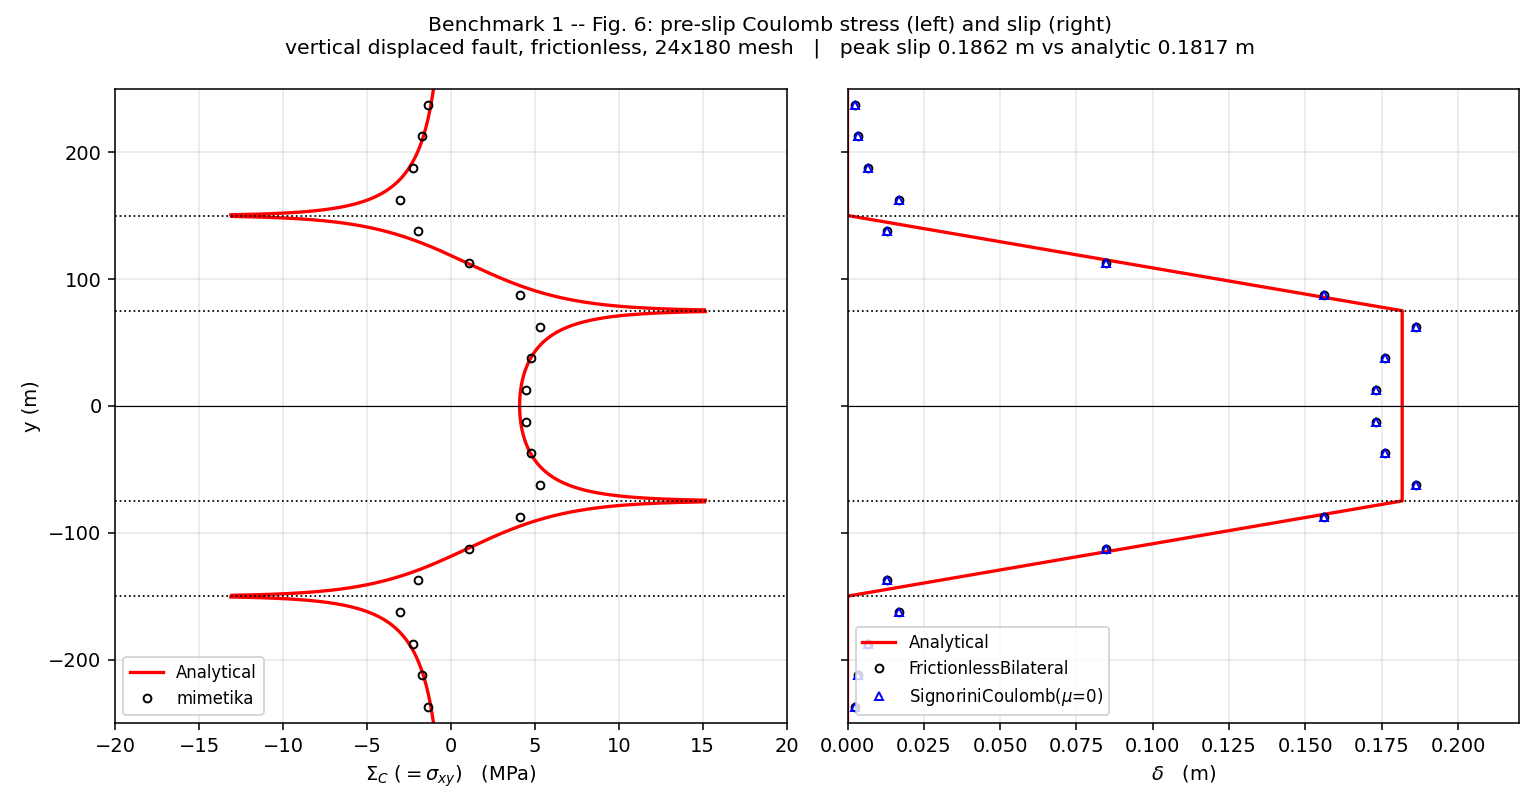
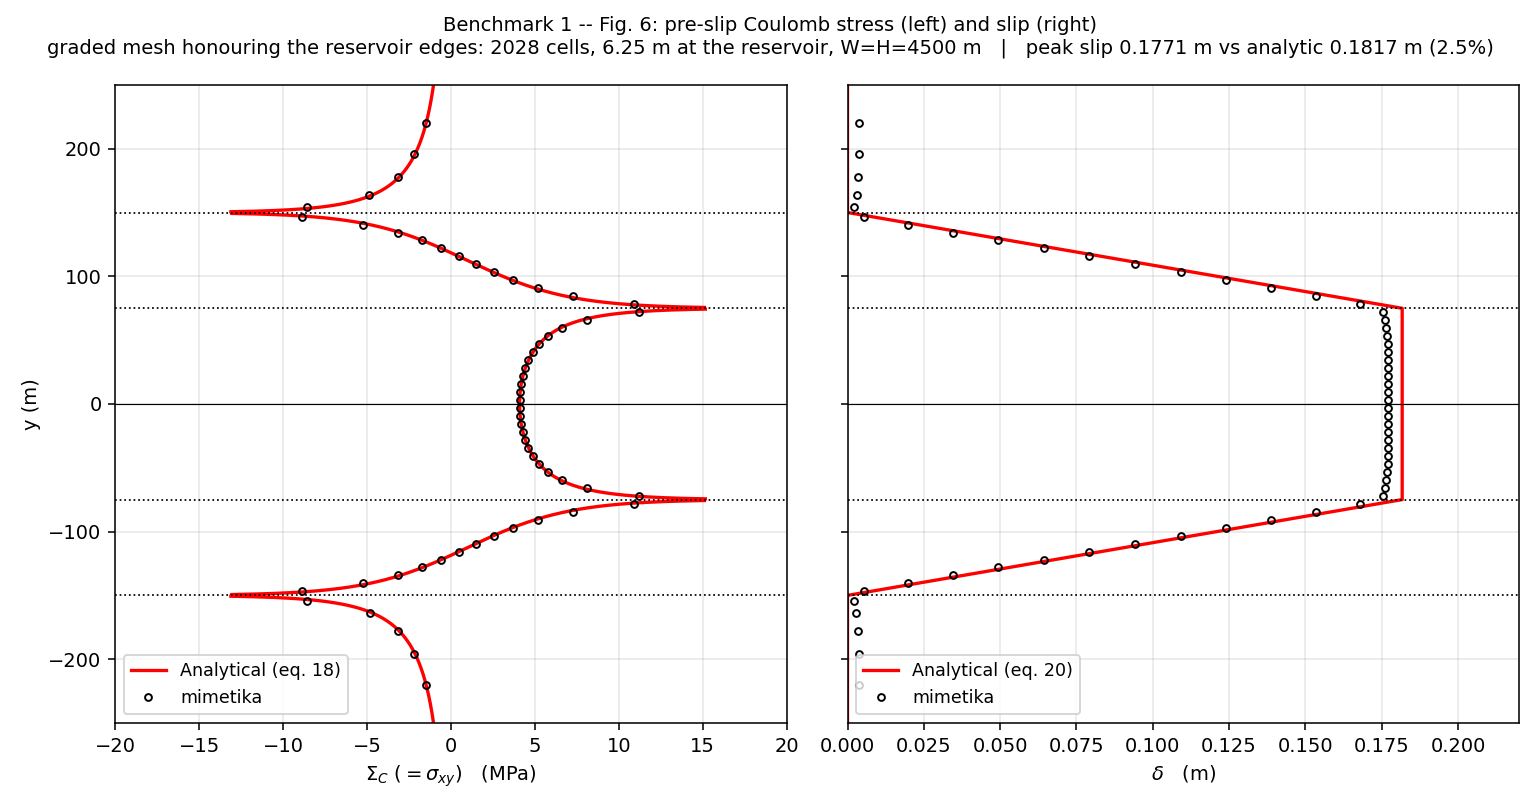
wip: reproduction of figure 6

diff --git a/benchmarks/contact_mechanics/benchmark_1.py b/benchmarks/contact_mechanics/benchmark_1.py
@@ -47,7 +47,7 @@ from mimetika.assembly.mixed import MixedElasticity, boundary_facets
 from mimetika.assembly.poromechanics import PoroMechanics
 from mimetika.contact import ContactDriver, FrictionlessBilateral, SignoriniCoulomb
 from mimetika.materials import Material
-from mimetika.mesh import structured_quads
+from mimetika.mesh import graded_coordinates, graded_quads, structured_quads
 from mimetika.mesh.fracture import facets_on_plane
 from mimetika.operators.elasticity import ElasticityInnerProduct
 from mimetika.solver.saddle import solve_saddle
@@ -97,12 +97,26 @@ def peak_slip(parameters: Parameters) -> float:
 # -- the simulation -------------------------------------------------------------------
 
 
-def build(parameters: Parameters, nx: int = 20, ny: int = 60):
-    """Mesh, fault tags and the depletion pressure field of the offset reservoir."""
+def build(parameters: Parameters, nx: int = 20, ny: int = 60, spacing=None):
+    """Mesh, fault tags and the depletion pressure field of the offset reservoir.
+
+    With ``spacing`` given the mesh is **graded**: nodes are placed exactly on the
+    reservoir edges ``y = +-a, +-b`` and on the fault ``x = 0``, uniform at
+    ``spacing`` across the reservoir, coarsening geometrically outwards.  That is
+    the right mesh for this problem -- the features span 300 m inside a 4500 m
+    domain, so a uniform grid spends almost all its cells where nothing happens.
+    Passing ``nx``/``ny`` instead gives the uniform mesh, kept for comparison.
+    """
     width, height = parameters.width, parameters.height
-    mesh = structured_quads(
-        nx, ny, lengths=(width, height), origin=(-width / 2, -height / 2)
-    )
+    if spacing is not None:
+        a, b = parameters.fault_a, parameters.fault_b
+        ys = graded_coordinates([-b, -a, a, b], (-height / 2, height / 2), spacing)
+        xs = graded_coordinates([0.0], (-width / 2, width / 2), 2.0 * spacing)
+        mesh = graded_quads(xs, ys)
+    else:
+        mesh = structured_quads(
+            nx, ny, lengths=(width, height), origin=(-width / 2, -height / 2)
+        )
     fault = facets_on_plane(mesh, [0.0, 0.0, 0.0], [1.0, 0.0, 0.0])
 
     # the reservoir is displaced across the fault: [-b, a] on the left, [-a, b]
@@ -158,7 +172,8 @@ def mechanics_factory(mesh, parameters: Parameters, pressure):
     return factory
 
 
-def pre_slip_stress(parameters: Parameters, nx: int = 20, ny: int = 60):
+def pre_slip_stress(parameters: Parameters, nx: int = 20, ny: int = 60,
+                    spacing=None):
     """Coulomb stress on the **locked** fault -- Fig. 6 (left), eq. (18).
 
     The other half of the benchmark, and a different computation: the fault is
@@ -170,7 +185,7 @@ def pre_slip_stress(parameters: Parameters, nx: int = 20, ny: int = 60):
     is singular at the four reservoir edges ``y = +-a, +-b``, so a cell-centred
     value can only ever track it away from those points.
     """
-    mesh, fault, pressure = build(parameters, nx=nx, ny=ny)
+    mesh, fault, pressure = build(parameters, nx=nx, ny=ny, spacing=spacing)
     problem, matrix, rhs = mechanics_factory(mesh, parameters, pressure)(None)
     solution = problem.split(
         solve_saddle(matrix, rhs, problem.block_sizes, method="direct")
@@ -215,6 +230,7 @@ def simulate(
     ny: int = 60,
     law=None,
     prestress: bool = True,
+    spacing=None,
 ):
     """Solve the displaced-fault problem; return slip against ``y``.
 
@@ -224,7 +240,7 @@ def simulate(
     shut, and with ``prestress=False`` the unilateral one opens it, which is the
     failure this benchmark is able to detect.
     """
-    mesh, fault, pressure = build(parameters, nx=nx, ny=ny)
+    mesh, fault, pressure = build(parameters, nx=nx, ny=ny, spacing=spacing)
     driver = ContactDriver(
         mesh,
         fault,

diff --git a/src/mimetika/solver/saddle.py b/src/mimetika/solver/saddle.py
@@ -203,6 +203,70 @@ def _cpr_options() -> str:
     )
 
 
+#: MUMPS ``INFOG(1)`` codes that mean "the workspace estimate was too small",
+#: as opposed to a genuinely singular matrix (which is ``-10``).
+_MUMPS_OUT_OF_SPACE = (-8, -9, -14, -15, -17, -20)
+
+
+def _retry_if_out_of_workspace(ksp, b, x, verbose):
+    """Grow MUMPS's working space and refactorise, if that is why it failed.
+
+    MUMPS sizes its workspace from a *symbolic* estimate of the fill-in.  When
+    the numerical factorisation needs more than predicted it aborts, and PETSc
+    surfaces that as ``KSP_DIVERGED_PC_FAILED`` -- the same code it reports for a
+    zero pivot.  The two are indistinguishable from the KSP alone, so this looks
+    exactly like an ill-conditioned matrix and invites the wrong fix.
+
+    ``INFOG(1)`` tells them apart.  Anything in :data:`_MUMPS_OUT_OF_SPACE` is a
+    sizing problem with a well-posed system behind it, and MUMPS's own remedy is
+    to raise ``ICNTL(14)`` -- the percentage by which the estimate is inflated --
+    and factorise again.  Meshes with high cell aspect ratios trip this routinely,
+    because they generate far more fill-in than the estimate anticipates.
+
+    Escalating on demand rather than inflating ``ICNTL(14)`` up front means the
+    common case pays no extra memory.  Returns the final converged reason, or
+    ``None`` if no retry was warranted.
+    """
+    from petsc4py import PETSc
+
+    if ksp.getConvergedReason() >= 0:
+        return None
+    pc = ksp.getPC()
+    if pc.getType() != "lu" or pc.getFactorSolverType() != "mumps":
+        return None
+    try:
+        infog = pc.getFactorMatrix().getMumpsInfog(1)
+    except Exception:  # pragma: no cover - older petsc4py without the accessor
+        return None
+    if infog not in _MUMPS_OUT_OF_SPACE:
+        return None  # a real numerical failure; let the caller raise
+
+    # A spent PC cannot simply be re-run: PETSc caches the failed factorisation,
+    # and ICNTL(14) has to be in place *before* the numeric phase.  So each
+    # attempt gets a fresh KSP over the same operator.
+    mat = ksp.getOperators()[0]
+    options = PETSc.Options()
+    try:
+        for extra in (100, 400, 1600):
+            if verbose:
+                print(f"    MUMPS INFOG(1)={infog}: retrying with ICNTL(14)={extra}")
+            options["mat_mumps_icntl_14"] = extra
+            retry = PETSc.KSP().create()
+            retry.setOperators(mat)
+            retry.setType("preonly")
+            retry_pc = retry.getPC()
+            retry_pc.setType("lu")
+            retry_pc.setFactorSolverType("mumps")
+            retry.setFromOptions()
+            retry.solve(b, x)
+            if retry.getConvergedReason() >= 0:
+                return retry.getConvergedReason()
+        return retry.getConvergedReason()
+    finally:
+        # the options database is global and outlives this call
+        options.delValue("mat_mumps_icntl_14")
+
+
 def _solve_petsc(
     A, rhs, block_sizes, method, rtol, max_it, verbose, options=None,
     preconditioner="cpr",
@@ -259,8 +323,9 @@ def _solve_petsc(
         insert_petsc_options(options)
     ksp.setFromOptions()  # let -ksp_* / -pc_* command-line options win
     ksp.solve(b, x)
+    reason = _retry_if_out_of_workspace(ksp, b, x, verbose)
 
-    reason = ksp.getConvergedReason()
+    reason = ksp.getConvergedReason() if reason is None else reason
     if verbose:
         # every field below is queried from the live PETSc objects
         pc = ksp.getPC()

diff --git a/src/mimetika/mesh/generators.py b/src/mimetika/mesh/generators.py
@@ -183,6 +183,64 @@ def structured_quads(
     return Mesh.from_polygons(points, quads)
 
 
+def graded_quads(xs, ys) -> Mesh:
+    """A quadrilateral mesh from **explicit** node coordinates, in ``z = 0``.
+
+    ``structured_quads`` spaces nodes uniformly, which is the wrong tool when the
+    solution has features far smaller than the domain: resolving a 150 m
+    reservoir inside a 4500 m block costs thousands of cells that do nothing.
+    Passing the coordinates directly lets the mesh be fine where the physics is
+    and coarse where it is not -- and, just as importantly, lets material and
+    loading interfaces be placed exactly on cell faces.
+    """
+    xs = np.unique(np.asarray(xs, dtype=float))
+    ys = np.unique(np.asarray(ys, dtype=float))
+    nx, ny = len(xs) - 1, len(ys) - 1
+    if nx < 1 or ny < 1:
+        raise ValueError("need at least two distinct coordinates in each direction")
+    points = np.array([[x, y, 0.0] for y in ys for x in xs])
+
+    def vid(i, j):
+        return j * (nx + 1) + i
+
+    quads = [
+        [vid(i, j), vid(i + 1, j), vid(i + 1, j + 1), vid(i, j + 1)]
+        for j in range(ny)
+        for i in range(nx)
+    ]
+    return Mesh.from_polygons(points, quads)
+
+
+def graded_coordinates(interfaces, extent, spacing, growth: float = 1.35):
+    """Node coordinates that **honour** ``interfaces`` and coarsen away from them.
+
+    Every value in ``interfaces`` becomes a node, so a discontinuity in material
+    or loading lands on a cell face rather than bisecting a cell -- where a
+    cell-centred test would put it on the wrong side and shift the answer by half
+    a cell.  Between the outermost interfaces the spacing is uniform at
+    ``spacing``; beyond them it grows geometrically by ``growth`` out to
+    ``extent``, so the far field costs a handful of cells instead of hundreds.
+    """
+    interfaces = np.unique(np.asarray(interfaces, dtype=float))
+    lo, hi = float(interfaces[0]), float(interfaces[-1])
+    if not (extent[0] <= lo and hi <= extent[1]):
+        raise ValueError("interfaces must lie inside the extent")
+
+    nodes = [lo]
+    for left, right in zip(interfaces[:-1], interfaces[1:]):
+        count = max(1, int(round((right - left) / spacing)))
+        nodes.extend(np.linspace(left, right, count + 1)[1:])
+
+    for start, stop, step in ((lo, extent[0], -1.0), (hi, extent[1], 1.0)):
+        position, size = start, spacing
+        while (stop - position) * step > 1e-9:
+            size *= growth
+            position += step * size
+            nodes.append(position if (stop - position) * step > 0 else stop)
+        nodes.append(stop)
+    return np.unique(np.asarray(nodes, dtype=float))
+
+
 def structured_triangles(
     nx: int,
     ny: int,

diff --git a/src/mimetika/mesh/__init__.py b/src/mimetika/mesh/__init__.py
@@ -4,6 +4,8 @@ from mimetika.mesh.generators import (
     single_hexahedron,
     single_tetrahedron,
     structured_box,
+    graded_coordinates,
+    graded_quads,
     structured_quads,
     structured_tets,
     structured_triangles,
